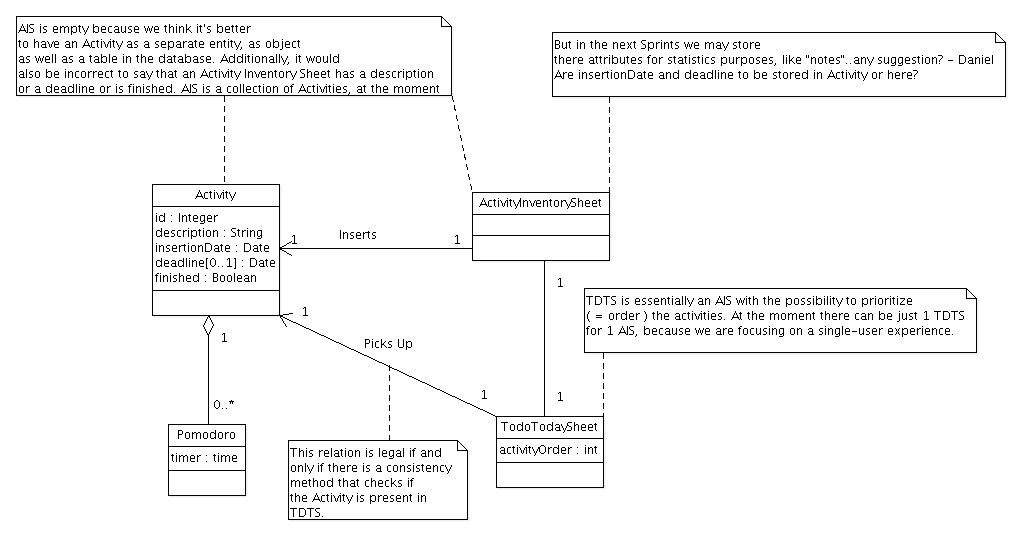
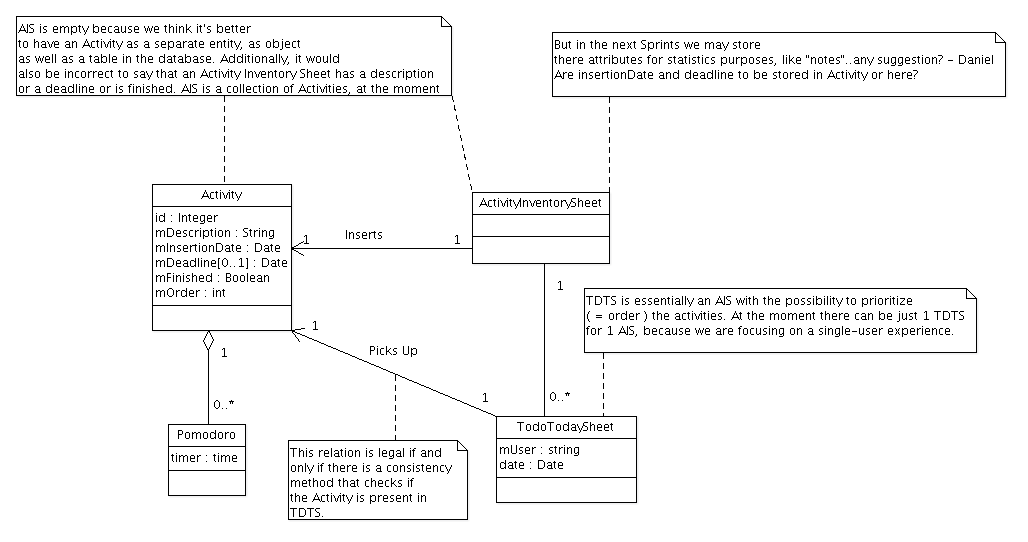
Activity mOrder starts from 1 when inserted in TTS Activity mOrder = 0 when activity is post-poned
git-svn-id: https://babbage.inf.unibz.it/teaching/2009/sep/team8/trunk@66 bfc077dc-68ba-492c-b29a-357650234e15

diff --git a/src/todotodaysheet.cpp b/src/todotodaysheet.cpp
@@ -35,9 +35,11 @@ void pomotuxdatabase::TodoTodaySheet::FinishActivity(const litesql::Database& rD
 
 void pomotuxdatabase::TodoTodaySheet::PostponeActivity(const litesql::Database& rDatabase, Activity& rCurrentActivity,TodoTodaySheet& rTTS)
 {
+    rCurrentActivity.mOrder = 0;
+    rCurrentActivity.update();
     ActivityInTTS::unlink(rDatabase, rCurrentActivity, rTTS);
     rTTS.MakeConsistent(rDatabase,rTTS);
-	rDatabase.commit();
+    rDatabase.commit();
 }
 
 void pomotuxdatabase::TodoTodaySheet::MoveActivity(const litesql::Database& rDatabase, Activity& rCurrentActivity,TodoTodaySheet& rTTS, int direction)
@@ -66,7 +68,7 @@ void pomotuxdatabase::TodoTodaySheet::MakeConsistent(const litesql::Database& rD
 {
     vector<Activity> currentTDTSActivities = ActivityInTTS::get<Activity>(rDatabase,Expr(),
             ActivityInTTS::TodoTodaySheet==rTTS.id).orderBy(Activity::MOrder).all();
-    int order = 0;
+    int order = 1;
     for (vector<Activity>::iterator i = currentTDTSActivities.begin(); i != currentTDTSActivities.end(); i++) {
         (*i).mOrder = order++;
         (*i).update();
@@ -79,7 +81,7 @@ int pomotuxdatabase::TodoTodaySheet::GetMaxmActivityOrder(const litesql::Databas
 
     vector<Activity> currentTDTSActivities = ActivityInTTS::get<Activity>(rDatabase,Expr(),
             ActivityInTTS::TodoTodaySheet==rTTS.id).all();
-    int maxOrder = -1;
+    int maxOrder = 0;
     for (vector<Activity>::iterator i = currentTDTSActivities.begin(); i != currentTDTSActivities.end(); i++) {
         if ((*i).mOrder > maxOrder)
             maxOrder = (*i).mOrder;
